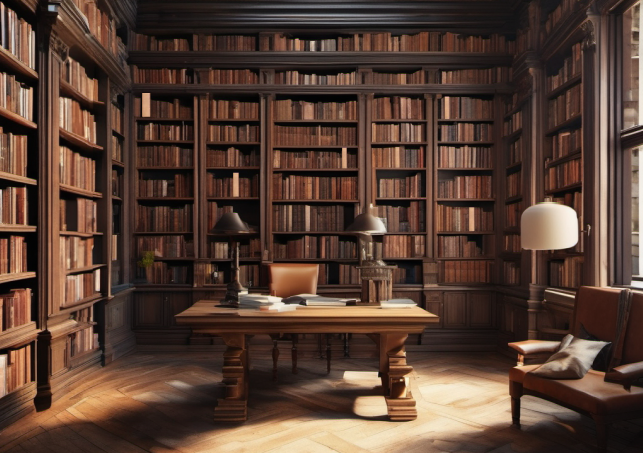
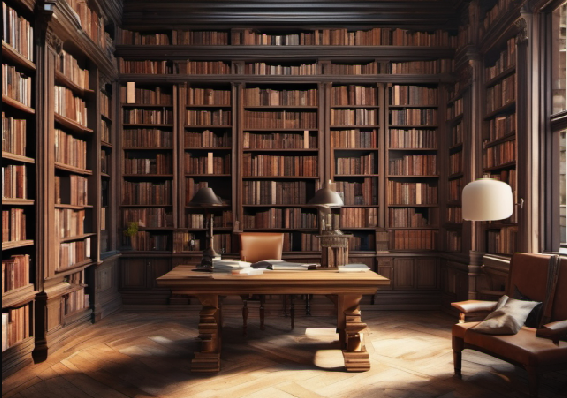
change

diff --git a/src/api/src/Gurpreet/rooms/LibraryRoom.ts b/src/api/src/Gurpreet/rooms/LibraryRoom.ts
@@ -2,29 +2,29 @@
 import { PickupAction } from "../actions/PickupAction";
 
 // This section imports necessary classes for handling different types of action results.
-import { ActionResult } from "../base/actionResults/ActionResult";
-import { TextActionResult } from "../base/actionResults/TextActionResult";
+import { ActionResult } from "../../base/actionResults/ActionResult";
+import { TextActionResult } from "../../base/actionResults/TextActionResult";
 
 // This import is for the base class representing actions.
-import { Action } from "../base/actions/Action";
+import { Action } from "../../base/actions/Action";
 
 // These imports are for defining interfaces and aliases related to examining actions.
-import { Examine, ExamineAction, ExamineActionAlias } from "../base/actions/ExamineAction";
+import { Examine, ExamineAction, ExamineActionAlias } from "../../base/actions/ExamineAction";
 
 // This import is for the TalkAction class.
-import { TalkAction } from "../base/actions/TalkAction";
+import { TalkAction } from "../../base/actions/TalkAction";
 
 // This import is for the base class representing game objects.
-import { GameObject } from "../base/gameObjects/GameObject";
+import { GameObject } from "../../base/gameObjects/GameObject";
 
 // This import is for the base class representing rooms.
-import { Room } from "../base/gameObjects/Room";
+import { Room } from "../../base/gameObjects/Room";
 
 // This import is for the DetectiveCharacter class.
 import { DetectiveCharacter } from "../characters/DetectiveCharacter";
 
 // These imports are for getting player session data and game objects from inventory.
-import { getGameObjectsFromInventory, getPlayerSession } from "../instances";
+import { getGameObjectsFromInventory, getPlayerSession } from "../../instances";
 
 // This import is for the BookCase class.
 import { BookCase } from "../items/BookCase";
@@ -37,7 +37,7 @@ import { Lamp } from "../items/Lamp";
 import { LockedCabinetItem } from "../items/LockedCabinet";
 
 // This import is for the PlayerSession type.
-import { PlayerSession } from "../types";
+import { PlayerSession } from "../../types";
 
 
 

diff --git a/src/api/src/instances.ts b/src/api/src/instances.ts
@@ -1,15 +1,15 @@
 import { GameObject } from "./base/gameObjects/GameObject";
 import { Room } from "./base/gameObjects/Room";
 import { getPlayerSessionFromContext, resetPlayerSessionInContext } from "./base/playerSessionMiddleware";
-import { DetectiveCharacter, DetectiveCharacterAlias } from "./characters/DetectiveCharacter";
-import { BookCase, BookCaseAlias } from "./items/BookCase";
-import { BookOneAlias, BookOne } from "./items/BookOne";
-import { BookThree, BookThreeAlias } from "./items/BookThree";
-import { BookTwo, BookTwoAlias } from "./items/BookTwo";
-import { Lamp, LampAlias } from "./items/Lamp";
-import { LockedCabinetItem, LockedCabinetItemAlias } from "./items/LockedCabinet";
-import { LibraryRoom, LibraryRoomAlias } from "./rooms/LibraryRoom";
-import { StartupRoom, StartupRoomAlias } from "./rooms/StartupRoom";
+import { DetectiveCharacter, DetectiveCharacterAlias } from "./Gurpreet/characters/DetectiveCharacter";
+import { BookCase, BookCaseAlias } from "./Gurpreet/items/BookCase";
+import { BookOneAlias, BookOne } from "./Gurpreet/items/BookOne";
+import { BookThree, BookThreeAlias } from "./Gurpreet/items/BookThree";
+import { BookTwo, BookTwoAlias } from "./Gurpreet/items/BookTwo";
+import { Lamp, LampAlias } from "./Gurpreet/items/Lamp";
+import { LockedCabinetItem, LockedCabinetItemAlias } from "./Gurpreet/items/LockedCabinet";
+import { LibraryRoom, LibraryRoomAlias } from "./Gurpreet/rooms/LibraryRoom";
+import { StartupRoom, StartupRoomAlias } from "./Gurpreet/rooms/StartupRoom";
 import { PlayerSession } from "./types";
 
 /**

diff --git a/src/api/src/Gurpreet/items/BookTwo.ts b/src/api/src/Gurpreet/items/BookTwo.ts
@@ -1,21 +1,21 @@
 // Import statements for handling different types of action results
 import { Pickup, PickupActionAlias } from "../actions/PickupAction";
-import { ActionResult } from "../base/actionResults/ActionResult";
-import { ExamineActionResult } from "../base/actionResults/ExamineActionResult";
-import { TextActionResult } from "../base/actionResults/TextActionResult";
+import { ActionResult } from "../../base/actionResults/ActionResult";
+import { ExamineActionResult } from "../../base/actionResults/ExamineActionResult";
+import { TextActionResult } from "../../base/actionResults/TextActionResult";
 
 // Import statements for defining interfaces and aliases related to examining and talking actions
-import { Examine, ExamineActionAlias } from "../base/actions/ExamineAction";
-import { Talk, TalkActionAlias } from "../base/actions/TalkAction";
+import { Examine, ExamineActionAlias } from "../../base/actions/ExamineAction";
+import { Talk, TalkActionAlias } from "../../base/actions/TalkAction";
 
 // Import statement for the base class representing game items
-import { Item } from "../base/gameObjects/Item";
+import { Item } from "../../base/gameObjects/Item";
 
 // Import statement for retrieving the player session
-import { getPlayerSession } from "../instances";
+import { getPlayerSession } from "../../instances";
 
 // Import statement for the PlayerSession type
-import { PlayerSession } from "../types";
+import { PlayerSession } from "../../types";
 
 // import { resetPlayerSession } from "../instances";
 

diff --git a/src/api/src/Gurpreet/items/BookOne.ts b/src/api/src/Gurpreet/items/BookOne.ts
@@ -1,21 +1,21 @@
 // This import is for handling different types of action results.
 import { Pickup, PickupActionAlias } from "../actions/PickupAction";
-import { ActionResult } from "../base/actionResults/ActionResult";
-import { ExamineActionResult } from "../base/actionResults/ExamineActionResult";
-import { TextActionResult } from "../base/actionResults/TextActionResult";
+import { ActionResult } from "../../base/actionResults/ActionResult";
+import { ExamineActionResult } from "../../base/actionResults/ExamineActionResult";
+import { TextActionResult } from "../../base/actionResults/TextActionResult";
 
 // These imports are for defining interfaces and aliases related to examining and talking actions.
-import { Examine, ExamineActionAlias } from "../base/actions/ExamineAction";
-import { Talk, TalkActionAlias } from "../base/actions/TalkAction";
+import { Examine, ExamineActionAlias } from "../../base/actions/ExamineAction";
+import { Talk, TalkActionAlias } from "../../base/actions/TalkAction";
 
 // This import is for the base class representing game items.
-import { Item } from "../base/gameObjects/Item";
+import { Item } from "../../base/gameObjects/Item";
 
 // Import statement for retrieving the player session
-import { getPlayerSession } from "../instances";
+import { getPlayerSession } from "../../instances";
 
 // Import statement for the PlayerSession type
-import { PlayerSession } from "../types";
+import { PlayerSession } from "../../types";
 // import { resetPlayerSession } from "../instances";
 
 

diff --git a/src/api/src/Gurpreet/items/BookThree.ts b/src/api/src/Gurpreet/items/BookThree.ts
@@ -1,21 +1,21 @@
 // This import is for handling different types of action results.
 import { Pickup, PickupActionAlias } from "../actions/PickupAction";
-import { ActionResult } from "../base/actionResults/ActionResult";
-import { ExamineActionResult } from "../base/actionResults/ExamineActionResult";
-import { TextActionResult } from "../base/actionResults/TextActionResult";
+import { ActionResult } from "../../base/actionResults/ActionResult";
+import { ExamineActionResult } from "../../base/actionResults/ExamineActionResult";
+import { TextActionResult } from "../../base/actionResults/TextActionResult";
 
 // These imports are for defining interfaces and aliases related to examining and talking actions.
-import { Examine, ExamineActionAlias } from "../base/actions/ExamineAction";
-import { Talk, TalkActionAlias } from "../base/actions/TalkAction";
+import { Examine, ExamineActionAlias } from "../../base/actions/ExamineAction";
+import { Talk, TalkActionAlias } from "../../base/actions/TalkAction";
 
 // This import is for the base class representing game items.
-import { Item } from "../base/gameObjects/Item";
+import { Item } from "../../base/gameObjects/Item";
 
 // Import statement for retrieving the player session
-import { getPlayerSession } from "../instances";
+import { getPlayerSession } from "../../instances";
 
 // Import statement for the PlayerSession type
-import { PlayerSession } from "../types";
+import { PlayerSession } from "../../types";
 // import { resetPlayerSession } from "../instances";
 
 

diff --git a/src/api/src/Gurpreet/items/Lamp.ts b/src/api/src/Gurpreet/items/Lamp.ts
@@ -1,17 +1,17 @@
 // This section imports necessary classes for handling different types of action results.
-import { ActionResult } from "../base/actionResults/ActionResult";
-import { ExamineActionResult } from "../base/actionResults/ExamineActionResult";
-import { TalkActionResult } from "../base/actionResults/TalkActionResult";
-import { TextActionResult } from "../base/actionResults/TextActionResult";
+import { ActionResult } from "../../base/actionResults/ActionResult";
+import { ExamineActionResult } from "../../base/actionResults/ExamineActionResult";
+import { TalkActionResult } from "../../base/actionResults/TalkActionResult";
+import { TextActionResult } from "../../base/actionResults/TextActionResult";
 
 // These imports are for defining interfaces and aliases related to examining and talking actions.
-import { Examine, ExamineActionAlias } from "../base/actions/ExamineAction";
-import { Talk, TalkActionAlias, TalkChoiceAction } from "../base/actions/TalkAction";
+import { Examine, ExamineActionAlias } from "../../base/actions/ExamineAction";
+import { Talk, TalkActionAlias, TalkChoiceAction } from "../../base/actions/TalkAction";
 
 // This import is for the base class representing game items.
-import { Item } from "../base/gameObjects/Item";
-import { getPlayerSession } from "../instances";
-import { PlayerSession } from "../types";
+import { Item } from "../../base/gameObjects/Item";
+import { getPlayerSession } from "../../instances";
+import { PlayerSession } from "../../types";
 
 
 

diff --git a/src/api/src/Gurpreet/items/BookCase.ts b/src/api/src/Gurpreet/items/BookCase.ts
@@ -1,15 +1,15 @@
 // This import is for handling different types of action results.
-import { ActionResult } from "../base/actionResults/ActionResult";
-import { TextActionResult } from "../base/actionResults/TextActionResult";
+import { ActionResult } from "../../base/actionResults/ActionResult";
+import { TextActionResult } from "../../base/actionResults/TextActionResult";
 
 // These imports are for defining interfaces and aliases related to examining and talking actions.
-import { Examine, ExamineActionAlias } from "../base/actions/ExamineAction";
-import { Talk, TalkActionAlias } from "../base/actions/TalkAction";
+import { Examine, ExamineActionAlias } from "../../base/actions/ExamineAction";
+import { Talk, TalkActionAlias } from "../../base/actions/TalkAction";
 
 // This import is for the base class representing game items.
-import { Item } from "../base/gameObjects/Item";
-import { getPlayerSession } from "../instances";
-import { PlayerSession } from "../types";
+import { Item } from "../../base/gameObjects/Item";
+import { getPlayerSession } from "../../instances";
+import { PlayerSession } from "../../types";
 
 // import { resetPlayerSession } from "../instances";
 

diff --git a/src/api/src/Gurpreet/characters/DetectiveCharacter.ts b/src/api/src/Gurpreet/characters/DetectiveCharacter.ts
@@ -1,15 +1,15 @@
 // This import is for handling different types of action results.
-import { ActionResult } from "../base/actionResults/ActionResult";
-import { TextActionResult } from "../base/actionResults/TextActionResult";
+import { ActionResult } from "../../base/actionResults/ActionResult";
+import { TextActionResult } from "../../base/actionResults/TextActionResult";
 
 // These imports are for defining interfaces and aliases related to examining and talking actions.
-import { Examine, ExamineActionAlias } from "../base/actions/ExamineAction";
-import { Talk, TalkActionAlias } from "../base/actions/TalkAction";
+import { Examine, ExamineActionAlias } from "../../base/actions/ExamineAction";
+import { Talk, TalkActionAlias } from "../../base/actions/TalkAction";
 
 // This import is for the base class representing game characters.
-import { Character } from "../base/gameObjects/Character";
-import { getPlayerSession } from "../instances";
-import { PlayerSession } from "../types";
+import { Character } from "../../base/gameObjects/Character";
+import { getPlayerSession } from "../../instances";
+import { PlayerSession } from "../../types";
 
 
 

diff --git a/src/api/src/Gurpreet/items/LockedCabinet.ts b/src/api/src/Gurpreet/items/LockedCabinet.ts
@@ -1,14 +1,14 @@
 // This import is for handling different types of action results.
-import { ActionResult } from "../base/actionResults/ActionResult";
-import { ExamineCodeActionResult } from "../base/actionResults/ExamineCodeActionResult";
-import { TextActionResult } from "../base/actionResults/TextActionResult";
+import { ActionResult } from "../../base/actionResults/ActionResult";
+import { ExamineCodeActionResult } from "../../base/actionResults/ExamineCodeActionResult";
+import { TextActionResult } from "../../base/actionResults/TextActionResult";
 
 // These imports are for defining interfaces and aliases related to examining and talking actions.
-import { Examine, ExamineActionAlias } from "../base/actions/ExamineAction";
-import { Talk, TalkActionAlias } from "../base/actions/TalkAction";
+import { Examine, ExamineActionAlias } from "../../base/actions/ExamineAction";
+import { Talk, TalkActionAlias } from "../../base/actions/TalkAction";
 
 // This import is for the base class representing game items.
-import { Item } from "../base/gameObjects/Item";
+import { Item } from "../../base/gameObjects/Item";
 
 
 

diff --git a/src/api/src/Gurpreet/rooms/StartupRoom.ts b/src/api/src/Gurpreet/rooms/StartupRoom.ts
@@ -1,10 +1,10 @@
-import { ActionResult } from "../base/actionResults/ActionResult";
-import { TextActionResult } from "../base/actionResults/TextActionResult";
-import { Action } from "../base/actions/Action";
-import { CustomAction } from "../base/actions/CustomAction";
-import { GameObject } from "../base/gameObjects/GameObject";
-import { Room } from "../base/gameObjects/Room";
-import { getPlayerSession } from "../instances";
+import { ActionResult } from "../../base/actionResults/ActionResult";
+import { TextActionResult } from "../../base/actionResults/TextActionResult";
+import { Action } from "../../base/actions/Action";
+import { CustomAction } from "../../base/actions/CustomAction";
+import { GameObject } from "../../base/gameObjects/GameObject";
+import { Room } from "../../base/gameObjects/Room";
+import { getPlayerSession } from "../../instances";
 import { LibraryRoom } from "./LibraryRoom";
 
 export const StartupRoomAlias: string = "startup";

diff --git a/src/api/src/Gurpreet/actions/PickupAction.ts b/src/api/src/Gurpreet/actions/PickupAction.ts
@@ -1,7 +1,7 @@
-import { ActionResult } from "../base/actionResults/ActionResult";
-import { Action } from "../base/actions/Action";
-import { GameObject } from "../base/gameObjects/GameObject";
-import { castTo, implementsInterface } from "../base/helpers";
+import { ActionResult } from "../../base/actionResults/ActionResult";
+import { Action } from "../../base/actions/Action";
+import { GameObject } from "../../base/gameObjects/GameObject";
+import { castTo, implementsInterface } from "../../base/helpers";
 
 /**
  * Alias for the PickupAction class

diff --git a/src/api/src/routes.ts b/src/api/src/routes.ts
@@ -17,7 +17,7 @@ import {
     getGameObjectsByAliases,
 } from "./instances";
 import { PlayerSession } from "./types";
-import { PickupAction, PickupActionAlias } from "./actions/PickupAction";
+import { PickupAction, PickupActionAlias } from "./Gurpreet/actions/PickupAction";
 import { ExamineActionResult } from "./base/actionResults/ExamineActionResult";
 import { ExamineCodeActionResult } from "./base/actionResults/ExamineCodeActionResult";
 
